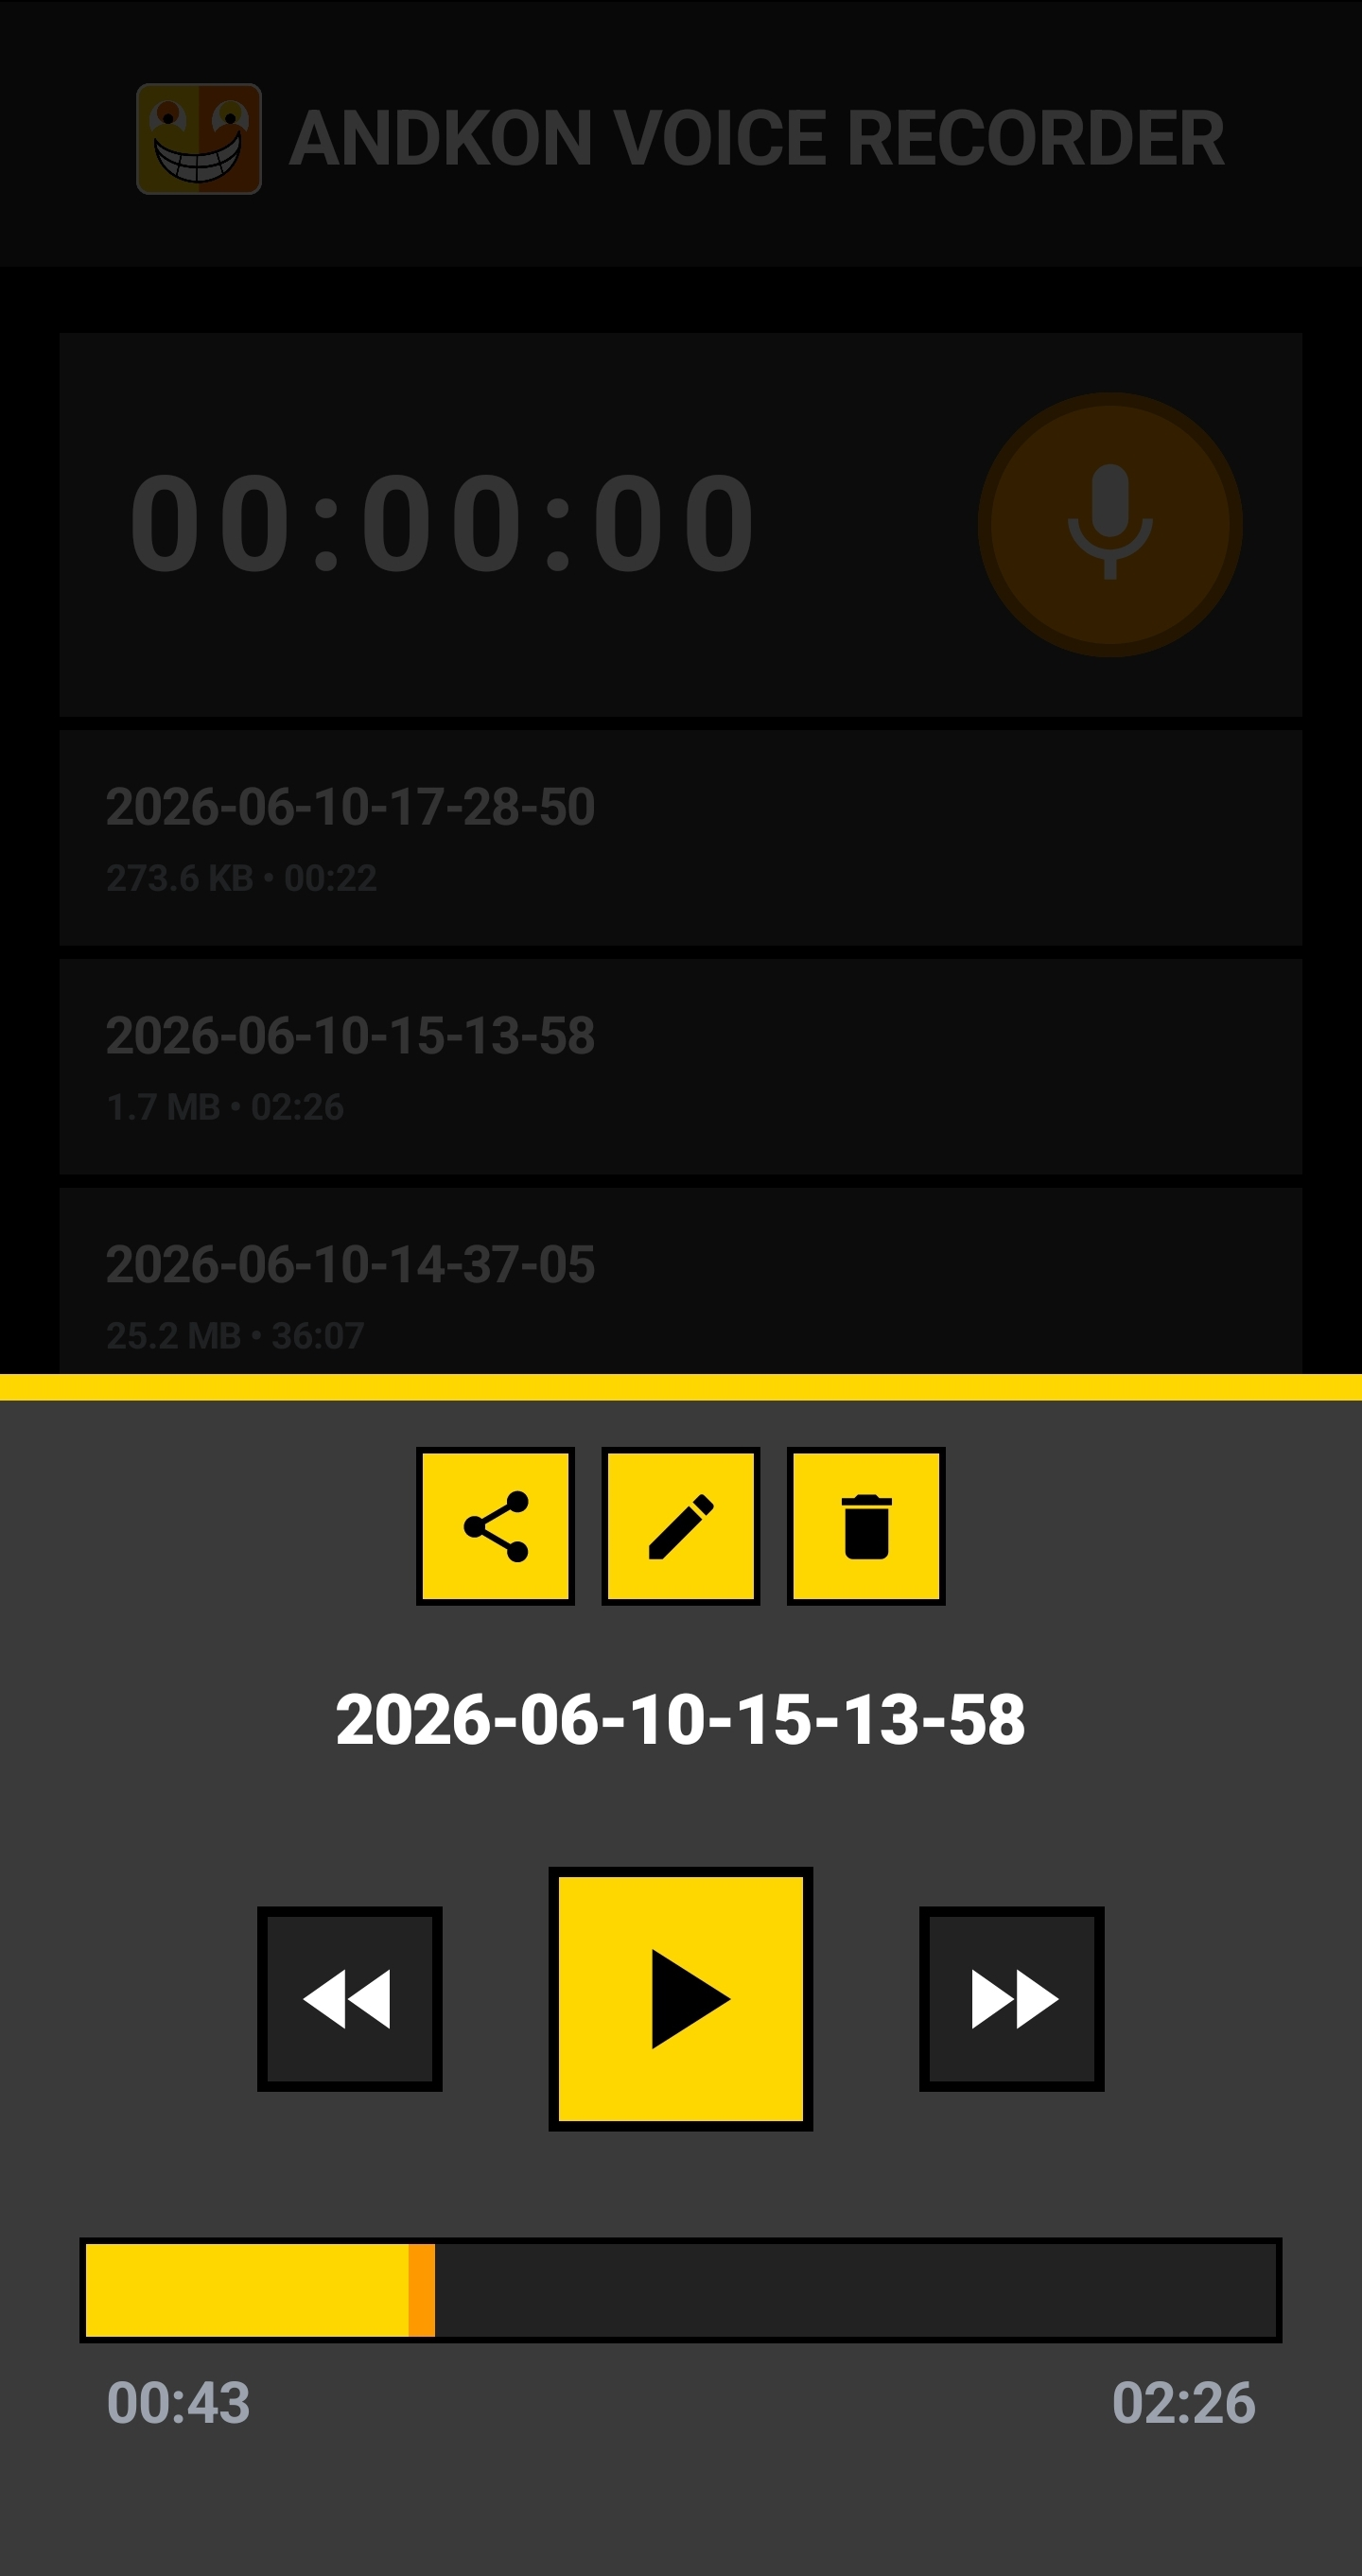
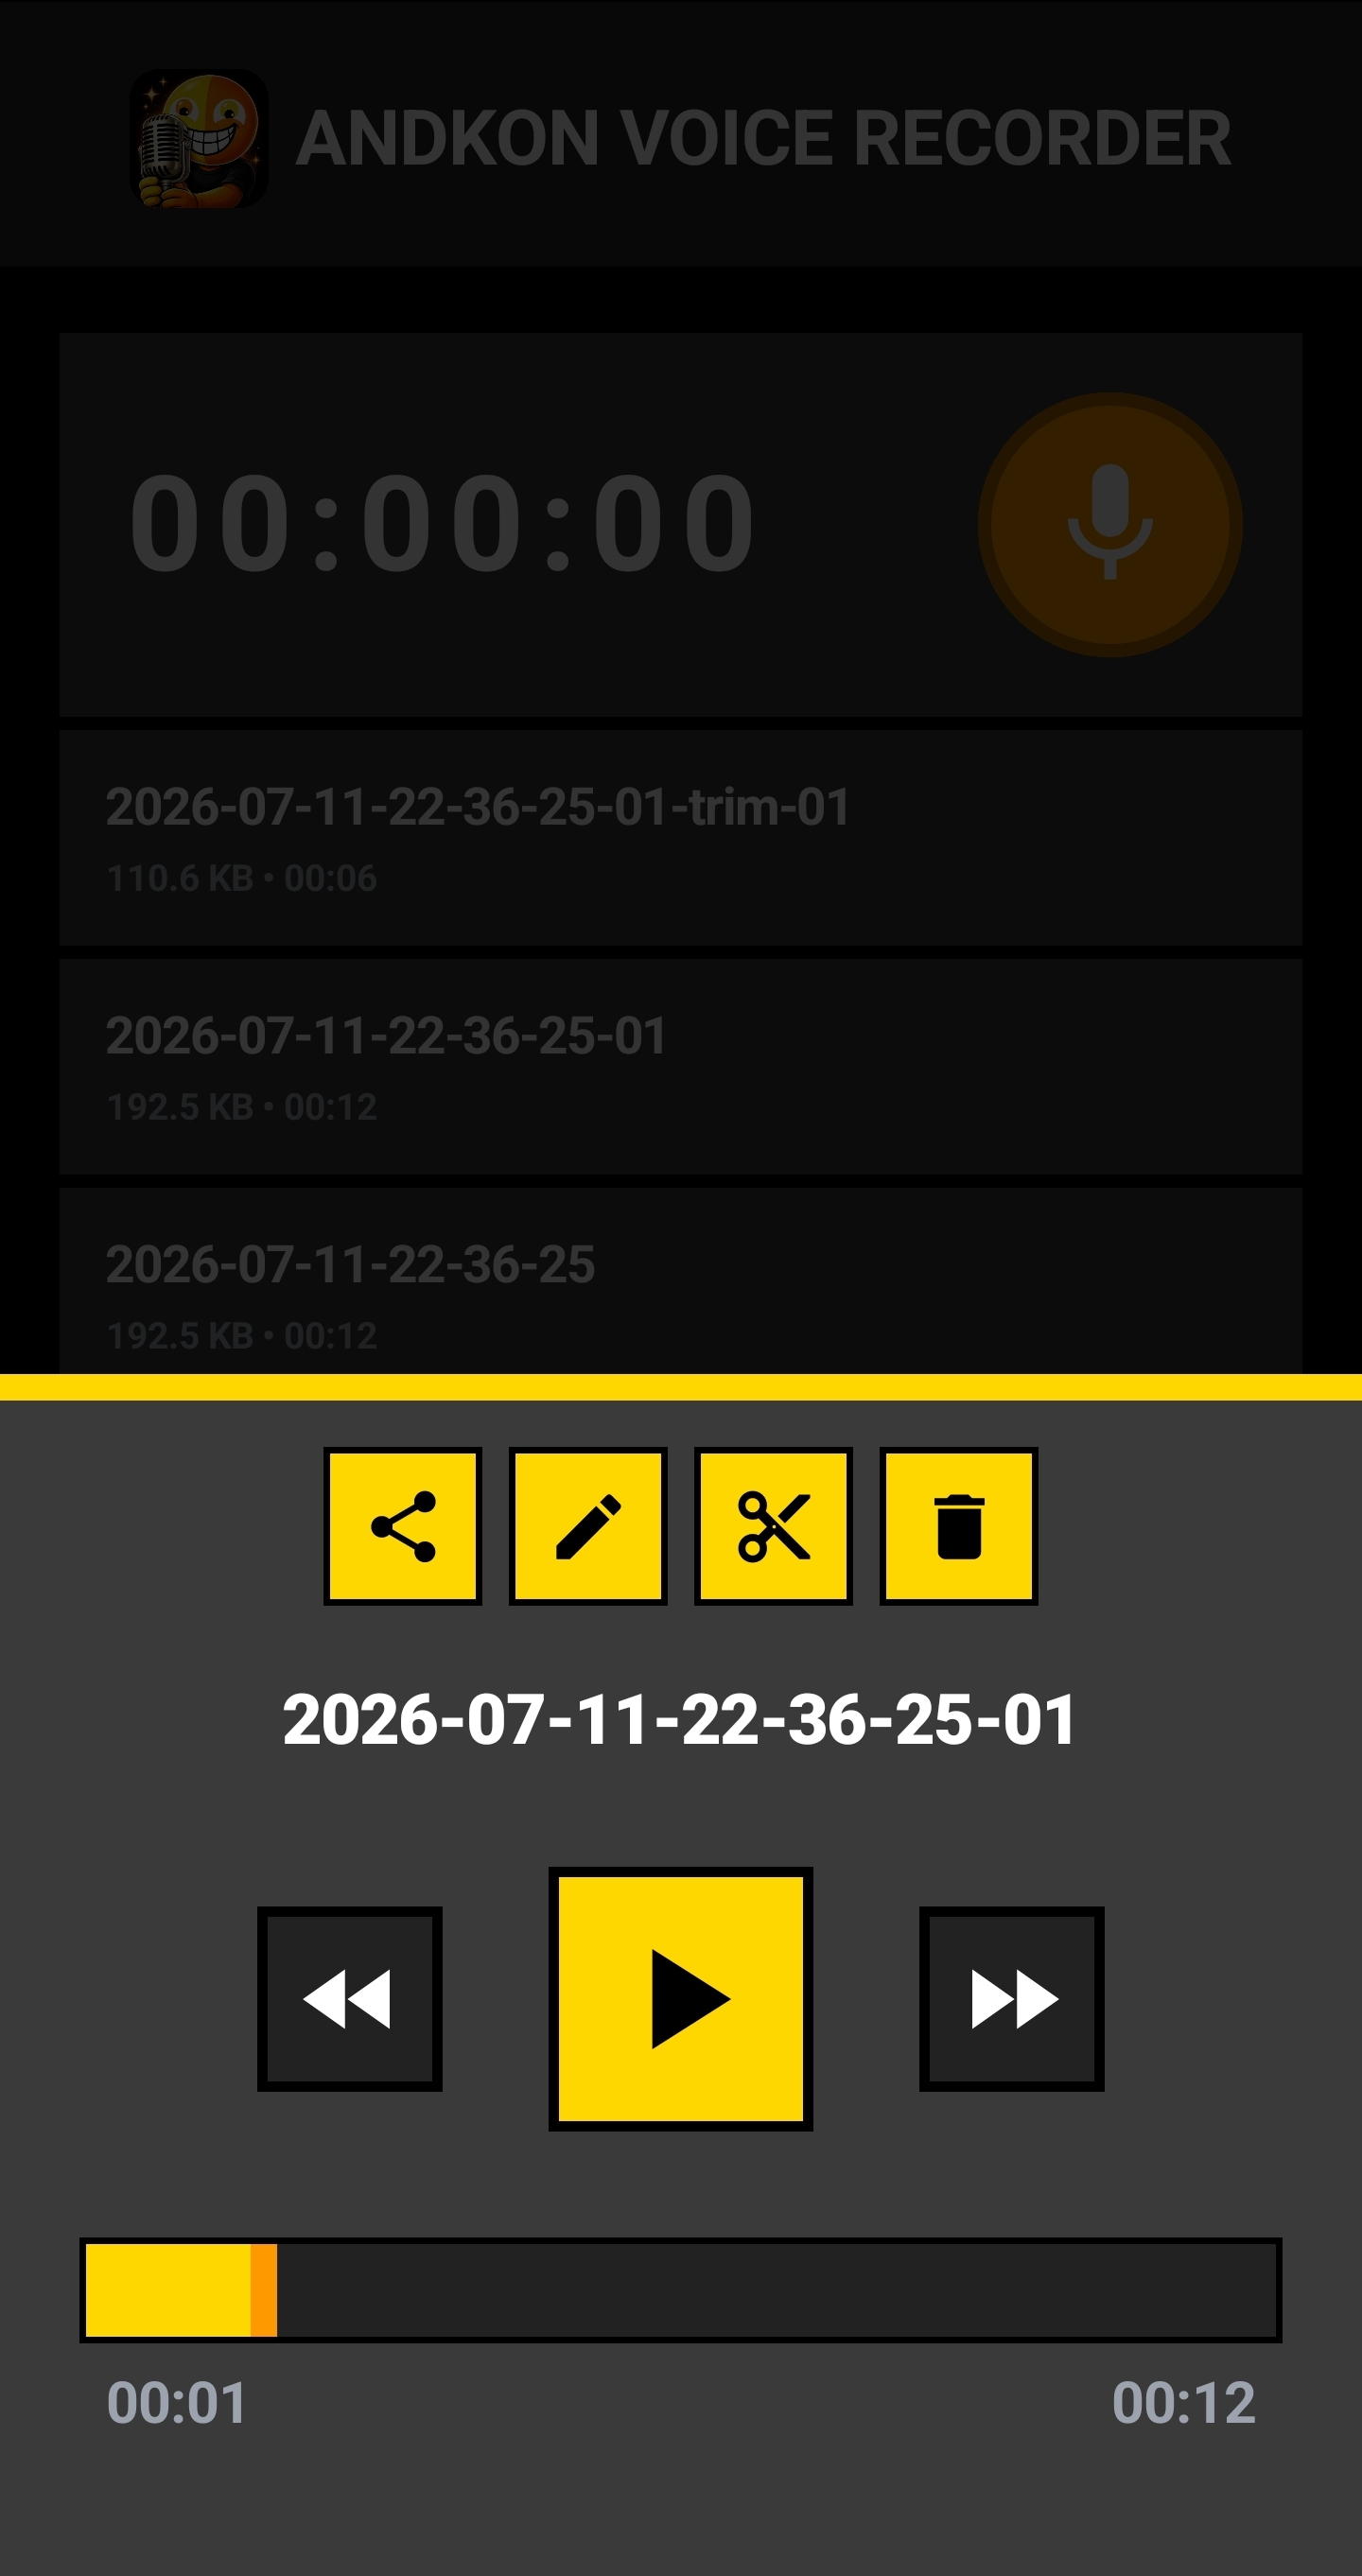
Update Voice Recorder website screenshots (#1)
Replace the playback screenshot, add the trim editor screenshot, and describe the new trimming feature.

diff --git a/voicerecorder/index.html b/voicerecorder/index.html
@@ -663,6 +663,7 @@
                         <li>Record audio from your microphone; recording continues in background</li>
                         <li>Save recordings to your phone in m4a format: Recordings/AndkonVoiceRecorder (or Music/AndkonVoiceRecorder on older phones)</li>
                         <li>Play recordings inside the app</li>
+                        <li>Trim recordings with a real waveform and save edits as new files while keeping the originals</li>
                         <li>Rename, share, and delete recordings</li>
                         <li>Default file name: yyyy-mm-dd-hh-mm-ss</li>
                         <li>Simple settings for recording quality and more</li>
@@ -692,7 +693,10 @@
                                 <button class="stack-card" type="button" aria-label="Open playback screenshot" data-stack-card="2" data-stack-position="2" aria-current="false">
                                     <img src="assets/screen-playback.jpg" alt="Andkon Voice Recorder playback screen">
                                 </button>
-                                <button class="stack-card" type="button" aria-label="Open settings screenshot" data-stack-card="3" data-stack-position="-1" aria-current="false">
+                                <button class="stack-card" type="button" aria-label="Open trim editor screenshot" data-stack-card="3" data-stack-position="-2" aria-current="false">
+                                    <img src="assets/screen-editor.jpg" alt="Andkon Voice Recorder trim editor with waveform selection">
+                                </button>
+                                <button class="stack-card" type="button" aria-label="Open settings screenshot" data-stack-card="4" data-stack-position="-1" aria-current="false">
                                     <img src="assets/screen-settings.jpg" alt="Andkon Voice Recorder settings screen">
                                 </button>
                             </div>
@@ -806,6 +810,11 @@
                     src: "assets/screen-playback.jpg",
                     alt: "Andkon Voice Recorder playback screen",
                     caption: "Playback"
+                },
+                {
+                    src: "assets/screen-editor.jpg",
+                    alt: "Andkon Voice Recorder trim editor with waveform selection",
+                    caption: "Trim Editor"
                 },
                 {
                     src: "assets/screen-settings.jpg",